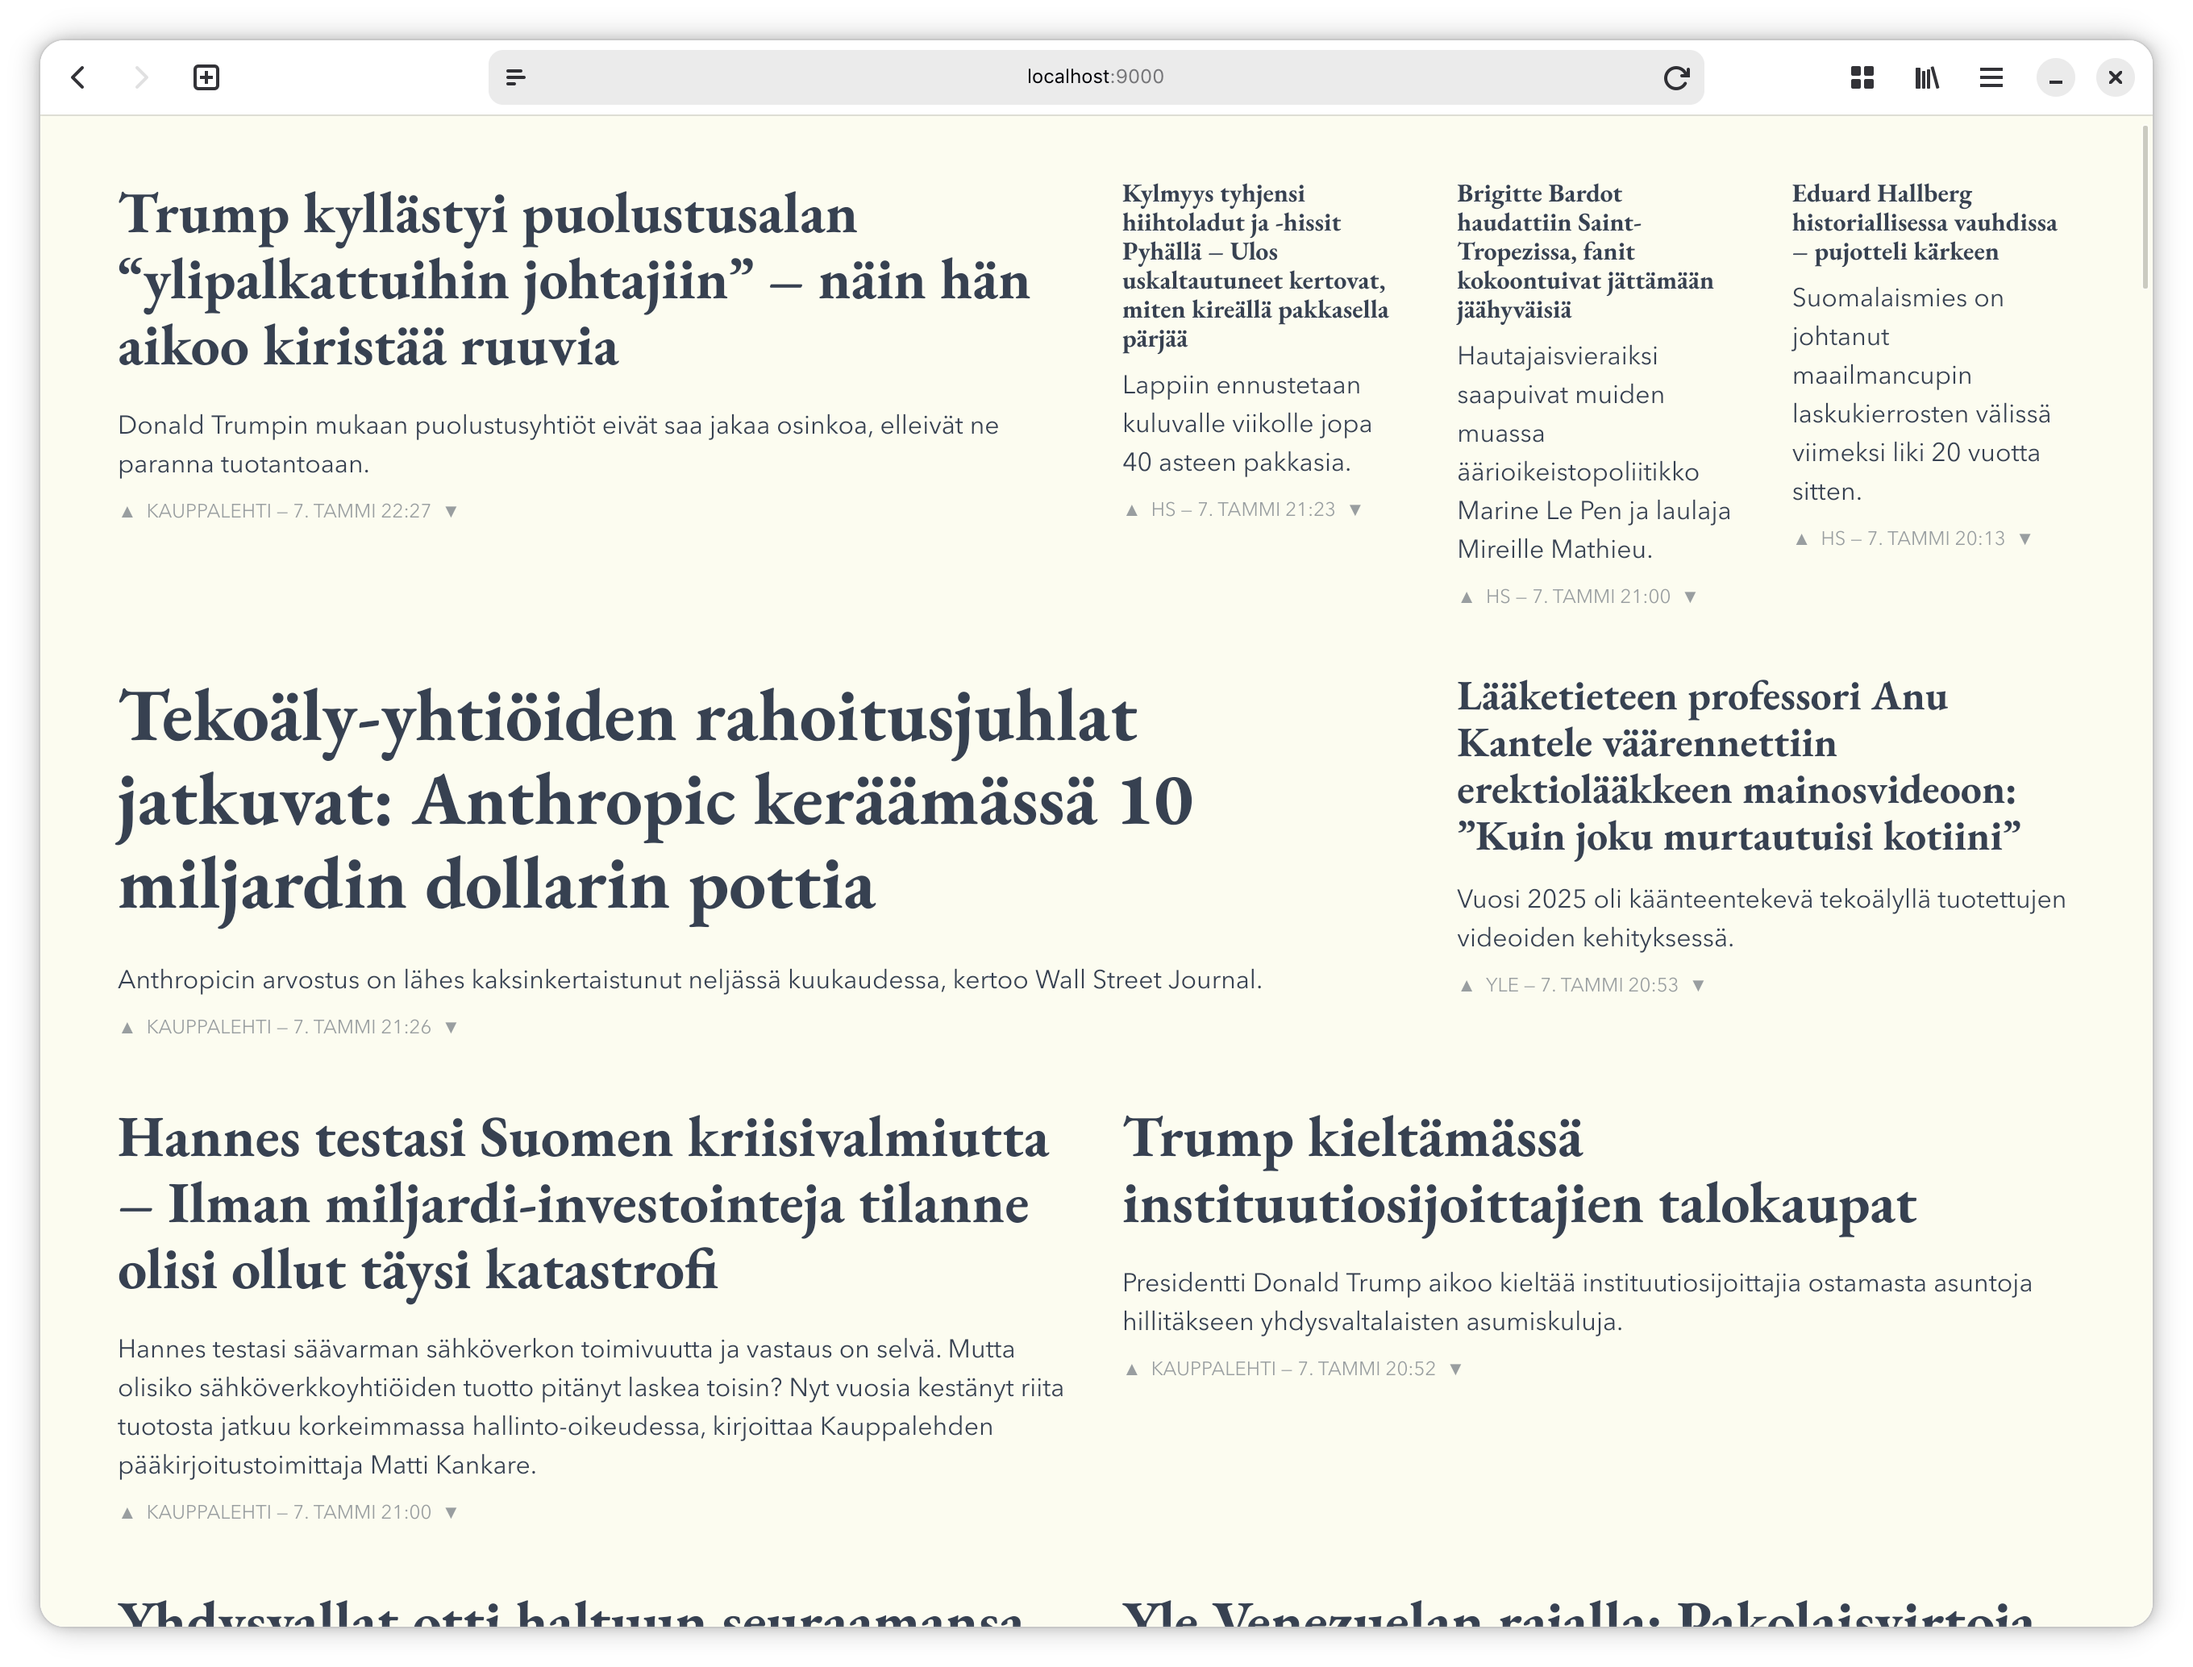
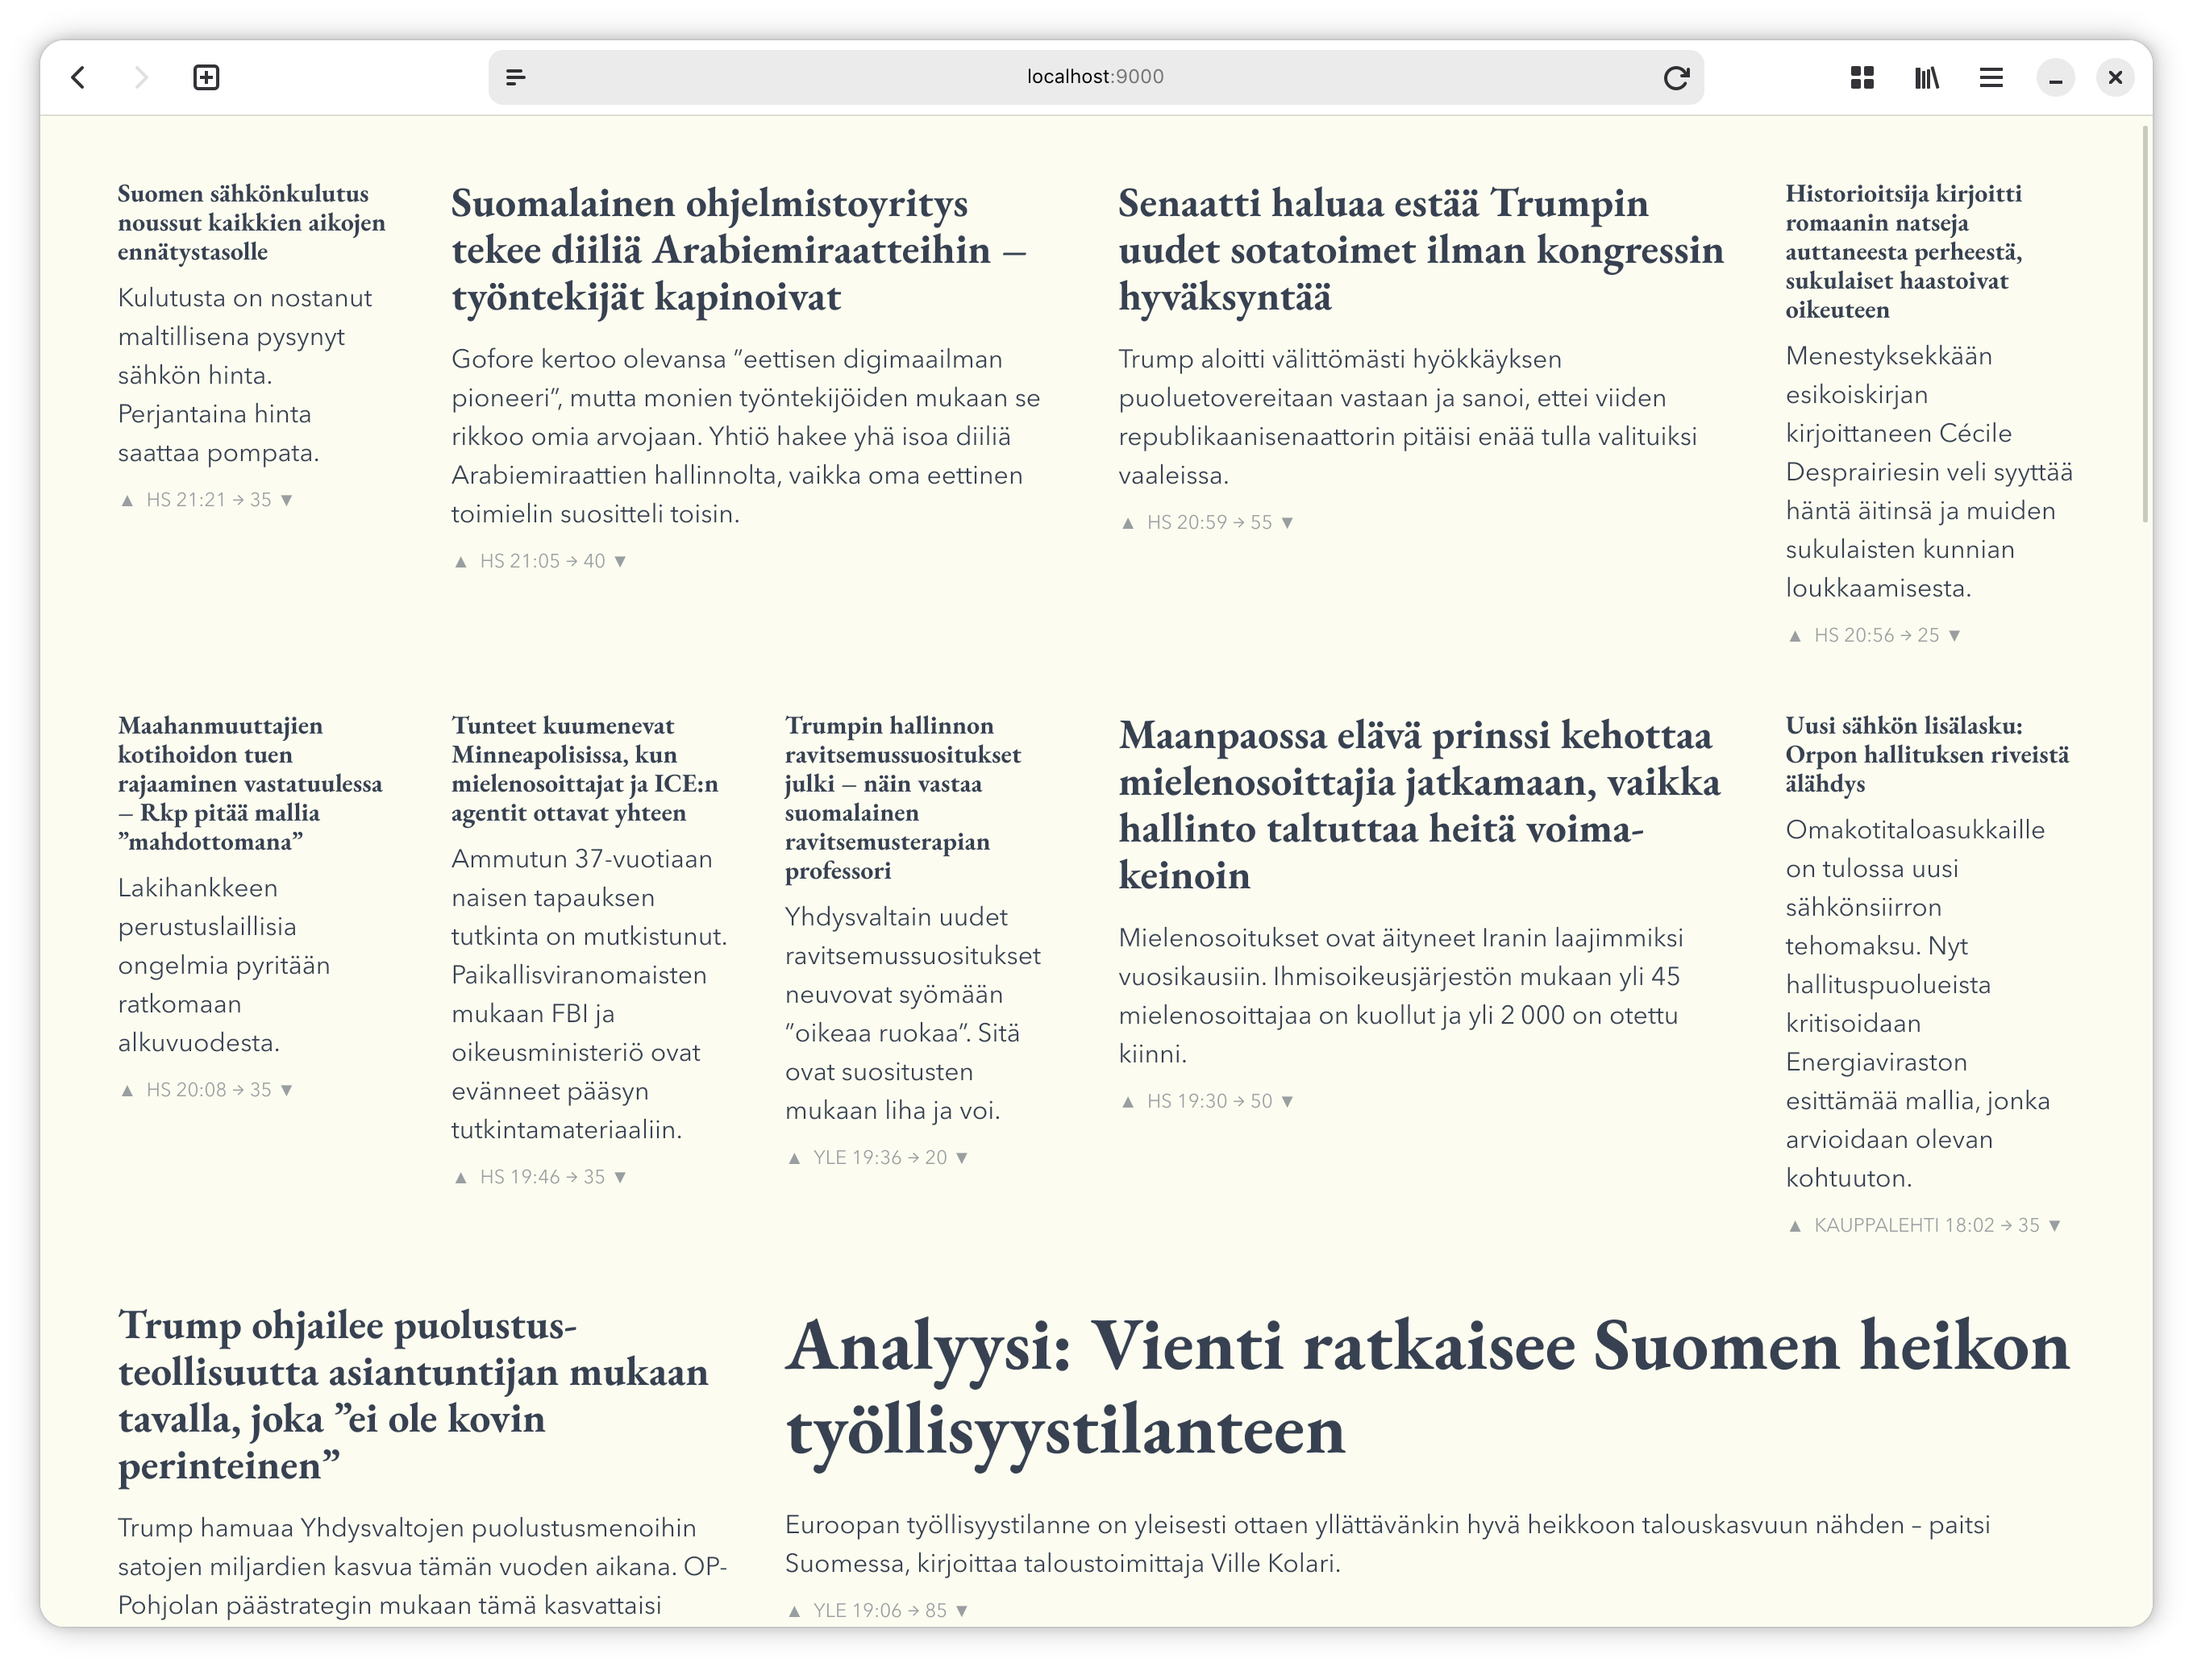
Update screenshots

diff --git a/README.md b/README.md
@@ -11,7 +11,11 @@ persists in local storage and is rendered as few-shot examples in the
 LLM prompt to affect subsequent article filtering and scoring. There is
 no backend. There is no state apart from local storage in the browser.
 
+Articles in order of recency, size scaled by score:
 ![screenshot](screenshot.png)
+
+Low score articles behind a toggle, hidden by default:
+![screenshot](screenshot-hidden.png)
 
 ## Getting Started
 
